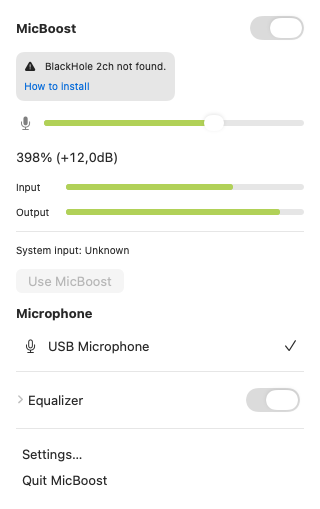
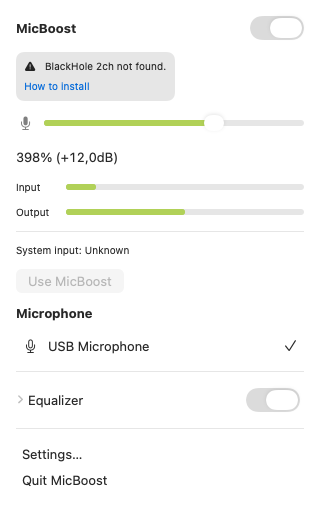
Display meter lengths in linear peak amplitude

Changed region(s): [[0.2812, 0.3536, 0.75, 0.3831], [0.5625, 0.4126, 0.875, 0.442]]

diff --git a/Tests/MicBoostUITests/AppModelTests.swift b/Tests/MicBoostUITests/AppModelTests.swift
@@ -53,10 +53,21 @@ import Testing
 
 @MainActor @Test func meterScaleReachesItsEndpoints() {
     #expect(AppModel.meterFraction(-60) == 0)
-    #expect(AppModel.meterFraction(-30) == 0.5)
+    #expect(abs(AppModel.meterFraction(-30) - sqrt(0.001)) < 1e-12)
     #expect(AppModel.meterFraction(0) == 1)
     #expect(AppModel.meterFraction(6) == 1)
     #expect(AppModel.meterFraction(-90) == 0)
-    #expect(abs(AppModel.meterFraction(-1) - 59.0 / 60.0) < 1e-12)
+    #expect(abs(AppModel.meterFraction(-1) - pow(10, -1.0 / 20)) < 1e-12)
     #expect(AppModel.meterFraction(.nan) == 0)
+}
+
+@MainActor @Test func meterLengthTracksAmplitudeGain() {
+    let doublingDB = 20 * log10(2.0)
+    for inputAmplitude in [0.01, 0.1, 0.4] {
+        let inputDB = 20 * log10(inputAmplitude)
+        let inputLength = AppModel.meterFraction(inputDB)
+        let outputLength = AppModel.meterFraction(inputDB + doublingDB)
+        #expect(abs(inputLength - inputAmplitude) < 1e-12)
+        #expect(abs(outputLength - 2 * inputLength) < 1e-12)
+    }
 }

diff --git a/Sources/MicBoostUI/AppModel.swift b/Sources/MicBoostUI/AppModel.swift
@@ -40,8 +40,8 @@ public func localized(_ key: String) -> String {
     }
     public static func gainStep(option: Bool) -> Double { option ? 1 : 0.5 }
     public static func meterFraction(_ db: Double) -> Double {
-        guard db.isFinite else { return 0 }
-        return min(1, max(0, (db + 60) / 60))
+        guard db.isFinite, db > -60 else { return 0 }
+        return min(1, pow(10, db / 20))
     }
     public var icon: String {
         if error != nil || status?.defaultInput.divergedByUser == true { return "exclamationmark.triangle.fill" }

diff --git a/docs/ui.md b/docs/ui.md
@@ -41,7 +41,7 @@ Conteúdo, de cima para baixo (SwiftUI, `PanelView`):
    - **Ligar:** reconstrói o motor com a fonte e os ajustes persistidos e reaplica a política de entrada padrão.
    - O estado persiste (`processingEnabled`), e a troca nunca fecha o painel.
 2. **Ganho:** botão de mute com o ícone `mic.fill`/`mic.slash.fill` centralizado em uma área fixa de 20 × 20 pt para não deslocar o slider ao alternar, `Slider` de ganho de −12 a +24 dB e rótulo `398% (+12,0dB)` (percentual primeiro; dB entre parênteses). O valor é editável: clicar no rótulo abre um campo numérico em dB. O selo "Limitador ativo" (pílula discreta) aparece ao lado do valor de ganho durante a proteção de pico; sua área permanece reservada e o selo fica oculto para acessibilidade quando inativo, sem alterar a altura do painel ou deslocar controles.
-3. **Medidores:** duas barras horizontais de 6 pt de espessura (como a trilha do slider de ganho), "Entrada" e "Saída", em dBFS de −60 a 0, sempre na cor de destaque do sistema, sem flash vermelho nem aviso textual de saturação.
+3. **Medidores:** duas barras horizontais de 6 pt de espessura (como a trilha do slider de ganho), "Entrada" e "Saída", com comprimento proporcional à amplitude de pico (0…1), valores de acessibilidade em dBFS de −60 a 0, sempre na cor de destaque do sistema, sem flash vermelho nem aviso textual de saturação.
 4. **Entrada do sistema:** apenas o estado da entrada padrão; a fonte selecionada é indicada pela marcação na lista de microfones, sem uma linha adicional de caminho do áudio:
    - ok: "Entrada do sistema: MicBoost" com marcação;
    - divergência: "Entrada do sistema: <nome>" + botão "Usar MicBoost".
@@ -133,7 +133,9 @@ O menu ativa o app ao abrir para que os controles AppKit sejam apresentados ativ
 Os toggles usam `.toggleStyle(.switch)`, sem tamanho, escala, tint ou estado visual
 forçados: o AppKit escolhe as métricas e a cor de destaque a partir do sistema.
 
-Os medidores usam escala fixa de −60 a 0 dBFS: 0 dBFS preenche 100% da barra.
-O teto do limitador permanece em −1 dBFS, correspondente a 98,33% nessa escala;
-não alterar a escala nem o teto do áudio para preencher artificialmente a saída.
-Valores fora da faixa são limitados a 0…100% apenas para desenhar a barra.
+Os medidores usam amplitude linear: comprimento = `10^(dBFS/20)`, limitado a 0…1;
+valores de −60 dBFS ou menores ficam em zero. 0 dBFS preenche 100% da barra.
+Com EQ plano e sem redução do limitador, ganho de 200% produz uma barra de saída
+duas vezes maior que a de entrada. As barras representam os picos reais antes
+do EQ e depois do limitador, e não uma projeção do ganho escolhido.
+O teto de −1 dBFS corresponde a 89,13% da barra; o áudio mantém esse teto.

diff --git a/docs/testing.md b/docs/testing.md
@@ -161,7 +161,7 @@ Capturas claras/escuras verificadas visualmente; sliders sem marcas de passo.
 VoiceOver, todos os atalhos, reduzir movimento/transparência e contraste aumentado
 permanecem sem validação manual completa. A etapa 4 permanece em andamento.
 
-Verificação automatizada da interface: 56 testes (5 UI, 11 DSP, 40 Core),
+Verificação automatizada da interface: 57 testes (6 UI, 11 DSP, 40 Core),
 execução somada de aproximadamente 2 s; a suíte Core inclui o caso negativo
 `fakeRejectsOutputWrite`, que registra uma issue conhecida intencionalmente.
 `swift build`, `swift test`, lint recursivo de formatação, montagem debug e
@@ -200,9 +200,11 @@ para os dois controles: numa captura solicitada 100 ms depois do degrau,
 de `NSSliderCell` usada pelo medidor já preenchia toda a faixa (captura solicitada
 aos 99,96 ms). O medidor aplica o valor diretamente ao desenho nativo, sem
 interpolar a apresentação dos picos. A escala foi conferida em 0 dBFS (100%) e
-−1 dBFS (98,33%), com clamp somente fora de −60…0 dBFS.
+−1 dBFS (89,13%) na escala de amplitude linear; valores ≤ −60 dBFS ficam em zero.
+O teste de proporcionalidade confere que +6,0206 dB dobra o comprimento para
+amplitudes de entrada de 0,01, 0,1 e 0,4.
 
 Na captura clara renderizada a 1×, a trilha colorida do slider de ganho e as duas
 barras de nível medem 6 pixels de altura (6 pt), com cantos simétricos da trilha
 nativa. As renderizações clara e escura conferem o preenchimento de 100% na
-entrada e 98,33% na saída, sem knob nem moldura de indicador de capacidade.
+entrada e 89,13% na saída, sem knob nem moldura de indicador de capacidade.

diff --git a/docs/dsp.md b/docs/dsp.md
@@ -64,7 +64,7 @@ Os valores padrão formam o "padrão de voz": um realce discreto de fala para mi
 ## Ganho
 
 - Faixa do controle: **−12 dB a +24 dB** (6,3% a 1.585%), passo de 0,5 dB, padrão 0 dB. O máximo de +24 dB é mantido: os testes confirmam o teto do limitador nessa faixa. A calibração com voz humana permanece uma verificação manual pendente.
-- Exibição: `+12,0 dB · 398%`, com percentual = 100 · 10^(dB/20) arredondado ao inteiro. 0 dB = 100%, +6,02 dB ≈ 200%.
+- Exibição: `398% (+12,0dB)`, com percentual = 100 · 10^(dB/20) arredondado ao inteiro. 0 dB = 100%, +6,02 dB ≈ 200%.
 - O percentual é de amplitude, não de volume percebido, e a proteção de pico pode reduzir o ganho efetivo.
 - Aplicação: ganho linear por amostra, suavizado por filtro de um polo com τ = 20 ms rumo a `10^(dB/20)`, ou a 0 com mute.
 - Mute: o alvo vai a 0 com a mesma suavização, e o medidor de saída cai. O valor de ganho é mantido.

diff --git a/README.md b/README.md
@@ -75,8 +75,8 @@ Available today:
 - **Slim level meters**, matching the gain slider track, refresh about 20 times per second
   with gradual peak decay. Their rounded native slider tracks
   show each new peak directly; the stable **Limiter active** indicator shows
-  peak protection. Their scale ends at 0 dBFS, so the protected
-  −1 dBFS output reaches about 98.3% of the bar. This visual decay does not delay the audio.
+  peak protection. Bar lengths follow linear peak amplitude: 200% gain doubles the output
+  length with flat EQ and no limiting. The protected −1 dBFS output reaches about 89.1% of the bar. This visual decay does not delay the audio.
 - **Menu bar panel** with gain, meters, routing status, microphones and EQ, plus settings for
   buffer, channels, automatic system input switching and diagnostics, using native grouped
   sections and switches.
